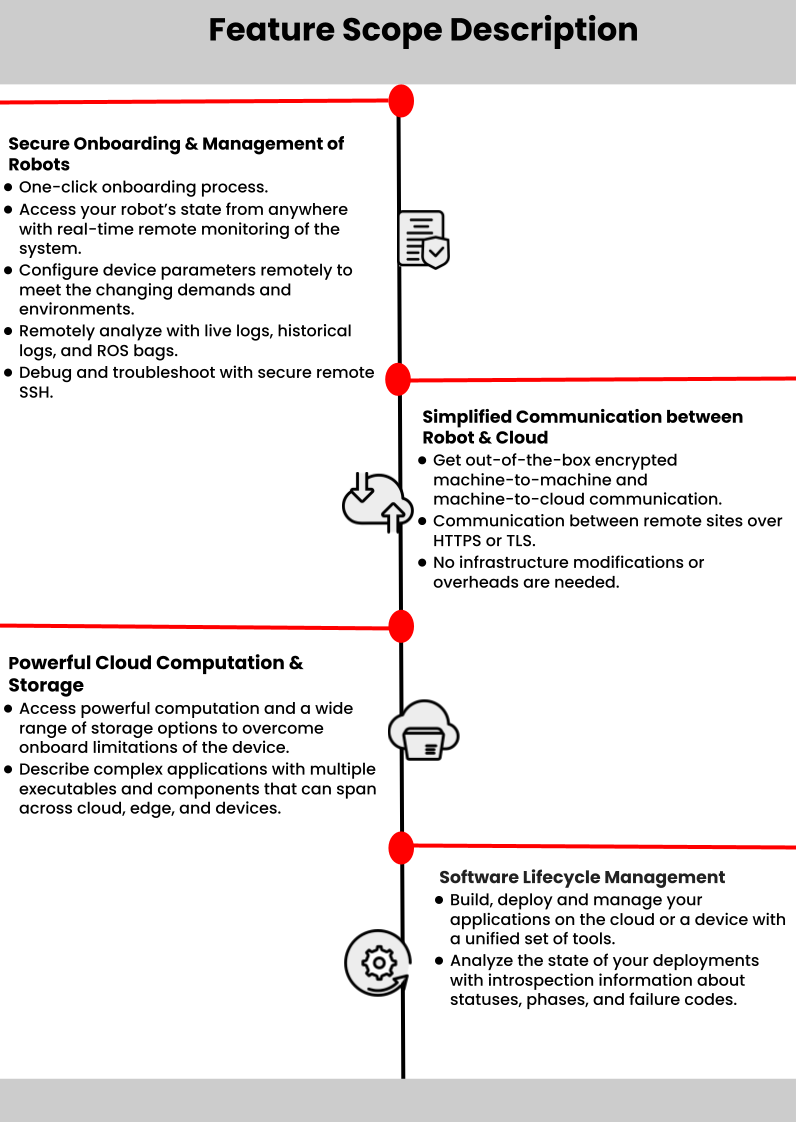
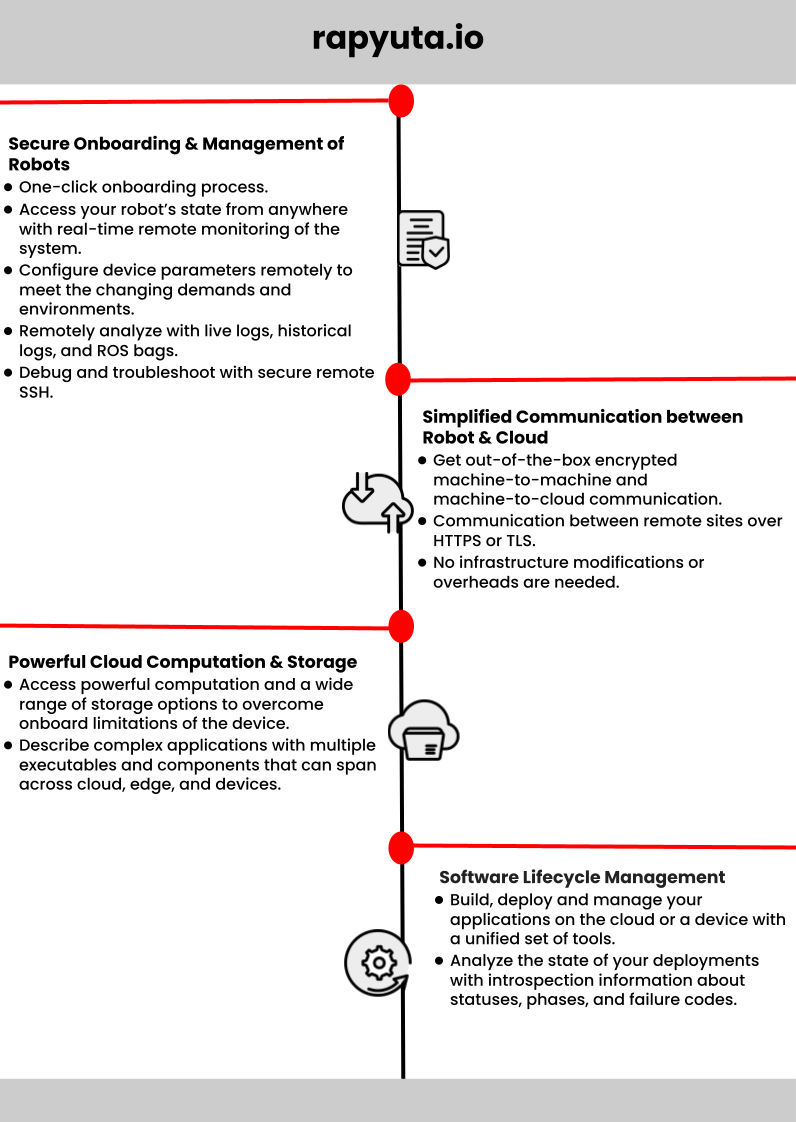
- resolved review comments

Changed region(s): [[0.0, 0.5615, 0.4824, 0.7487], [0.2412, 0.0, 0.8141, 0.0624]]

diff --git a/hugo/content/1_understanding-rio/11_introduction-to-rapyuta-io.md b/hugo/content/1_understanding-rio/11_introduction-to-rapyuta-io.md
@@ -1,6 +1,6 @@
 ---
 title: "Introduction"
-description: rapyuta.io is a platform that enables robotics solution development by providing the necessary software infrastructure and facilitating the interaction between multiple stakeholders who contribute to the solution development.
+description: rapyuta.io is a collection of tools and managed services that helps solve challenges of building, provisioning, operating, and iterating on distributed robotic applications.
 weight: 11
 versions:
   free-pro-team: '*'
@@ -28,9 +28,7 @@ introLinks: {}
 
 ## What is rapyuta.io
 
-rapyuta.io is a platform that enables robotics solution development by providing the necessary software infrastructure and facilitating the interaction between multiple stakeholders who contribute to the solution development.
-
-It also provides platform-as-a-service to manage cloud services that solve technical and production challenges of building, provisioning, running, and iterating on distributed robotic applications.
+rapyuta.io is a collection of tools and managed services that helps solve challenges of building, provisioning, operating, and iterating on distributed robotic applications.
 
 It enables developers to develop robot-enabled solutions that can be more complex, encompass a variety of robots, scale further and operate in multiple geographic locations.
 

diff --git a/hugo/content/3_how-tos/31_account-management/312_user-management.md b/hugo/content/3_how-tos/31_account-management/312_user-management.md
@@ -30,14 +30,14 @@ categories:
 ## Adding Users to an Organization
 
 {{%notice note%}}
- Only the  **Admin** of an organization can invite users to the rapyuta.io console.
+ Only the  **Admin** of an organization can invite users to their organization.
 {{%/notice %}}
 
 To invite or add users to the rapyuta.io platform, do the following:
 
 1. On the left navigation bar, click **Account > Organization**. The panel displays a list of users.
 
-2. On **Users** tab, enter a valid email address of the user you want to invite to the rapyuta.io console.
+2. On **Users** tab, enter a valid email address of the user you want to invite to rapyuta.io.
 
 3. Click **ADD USER**.
 

diff --git a/hugo/content/3_how-tos/31_account-management/311_managing-projects.md b/hugo/content/3_how-tos/31_account-management/311_managing-projects.md
@@ -28,8 +28,7 @@ categories:
 
 Managing projects include creating and deleting projects as well as adding and removing users from the project.
 
-  > Any user in **Activated** state can create a new project. 
-  >
+  > Any activated user can create a new project. 
   > Only the project creator can delete a project.
  
  ## Creating or Deleting a Project

diff --git a/hugo/content/1_understanding-rio/12_rapyuta.io-fsd.md b/hugo/content/1_understanding-rio/12_rapyuta.io-fsd.md
@@ -23,5 +23,6 @@ guideLinks: []
 introLinks: {}
 
 ---
+This feature scope description highlights the features offered by rapyuta.io.
 
 ![Feature Scope Description](/images/getting-started/fsd.png "FSD")
